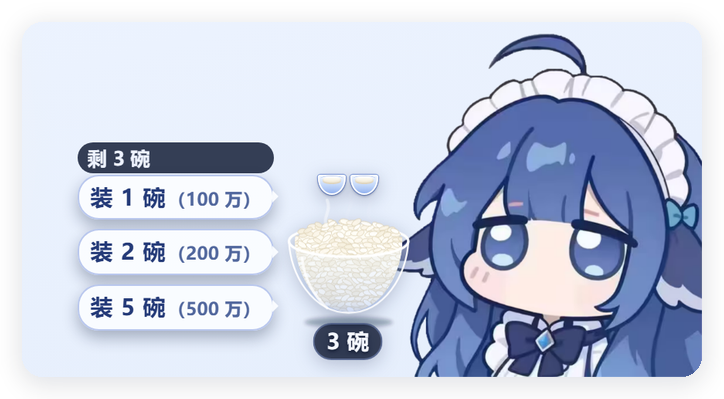
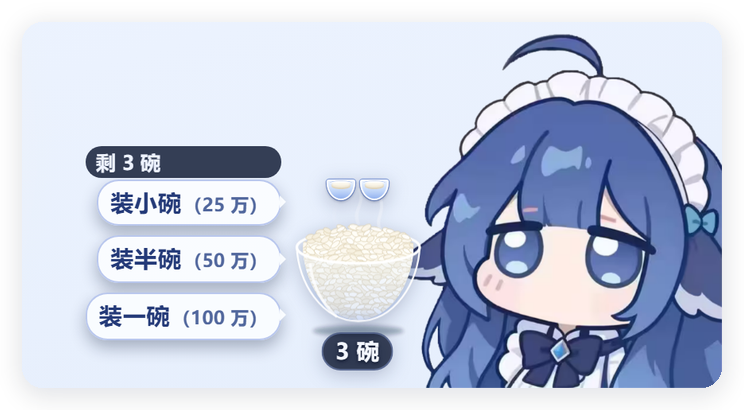
feat: v0.5.2 装饭档位改成小碗/半碗/一碗（25万/50万/100万）

diff --git a/assets/client.js b/assets/client.js
@@ -42,11 +42,15 @@
   ];
   var GRAIN_FILLS = ['#fffdf6', '#fbf6e9', '#fdf9ef', '#f7f0df', '#fffefb'];
 
-  // 1 碗 = 100 万 token；最多显示 5 碗；装饭菜单默认 1 / 2 / 5 碗。
+  // 1 碗 = 100 万 token；最多显示 5 碗；装饭菜单：小碗 25 万 / 半碗 50 万 / 一碗 100 万。
   var DEFAULT_CONFIG = {
     tokensPerBowl: 1000000,
     maxBowls: 5,
-    feedBowls: [1, 2, 5],
+    feedOptions: [
+      { label: '小碗', tokens: 250000 },
+      { label: '半碗', tokens: 500000 },
+      { label: '一碗', tokens: 1000000 }
+    ],
     biteTokens: 1800,
     pollRunningMs: 500,
     pollIdleMs: 1600,
@@ -218,7 +222,7 @@
     var base = {
       tokensPerBowl: DEFAULT_CONFIG.tokensPerBowl,
       maxBowls: DEFAULT_CONFIG.maxBowls,
-      feedBowls: DEFAULT_CONFIG.feedBowls.slice(),
+      feedOptions: DEFAULT_CONFIG.feedOptions.map(function (o) { return { label: o.label, tokens: o.tokens }; }),
       biteTokens: DEFAULT_CONFIG.biteTokens,
       pollRunningMs: DEFAULT_CONFIG.pollRunningMs,
       pollIdleMs: DEFAULT_CONFIG.pollIdleMs,
@@ -235,13 +239,15 @@
     });
     var maxBowls = Number(cfg.maxBowls);
     if (Number.isFinite(maxBowls) && maxBowls > 0) base.maxBowls = Math.max(1, Math.min(5, Math.round(maxBowls)));
-    if (Array.isArray(cfg.feedBowls) && cfg.feedBowls.length) {
+    if (Array.isArray(cfg.feedOptions) && cfg.feedOptions.length) {
       var feed = [];
-      for (var fi = 0; fi < cfg.feedBowls.length; fi++) {
-        var bowls = Math.round(Number(cfg.feedBowls[fi]));
-        if (Number.isFinite(bowls) && bowls > 0 && feed.indexOf(bowls) === -1) feed.push(bowls);
+      for (var fi = 0; fi < cfg.feedOptions.length; fi++) {
+        var opt = cfg.feedOptions[fi];
+        var optTokens = Math.round(Number(opt && opt.tokens));
+        if (!Number.isFinite(optTokens) || optTokens <= 0) continue;
+        feed.push({ label: String((opt && opt.label) || ''), tokens: optTokens });
       }
-      if (feed.length) base.feedBowls = feed.slice(0, 4);
+      if (feed.length) base.feedOptions = feed.slice(0, 4);
     }
     if (cfg.mouth && typeof cfg.mouth === 'object') {
       var mx = Number(cfg.mouth.x);
@@ -485,7 +491,7 @@
         ev.preventDefault();
         ev.stopPropagation();
         audioReady();
-        feedBowls(Number(tierBtn.getAttribute('data-bowls')) || 1);
+        feedTokens(Number(tierBtn.getAttribute('data-tokens')) || 0);
         return;
       }
       if (target.closest('.dshwr-reset')) {
@@ -673,7 +679,10 @@
     var r = Math.max(0, Number(remain) || 0);
     if (r <= 0) return '没饭了';
     var b = bowlsOf(r);
-    var text = b >= 10 ? String(Math.round(b)) : b.toFixed(1).replace(/\.0$/, '');
+    var text;
+    if (b >= 10) text = String(Math.round(b));
+    else if (b >= 1) text = b.toFixed(1).replace(/\.0$/, '');
+    else text = b.toFixed(2).replace(/0+$/, '').replace(/\.$/, '');
     return text + ' 碗';
   }
 
@@ -1098,9 +1107,9 @@
     rt.els.stack.hidden = full <= 0;
   }
 
-  function feedBowls(bowls) {
-    var n = Math.max(1, Math.round(Number(bowls) || 1));
-    var amount = n * tokensPerBowl();
+  function feedTokens(tokens) {
+    var amount = Math.max(0, Math.round(Number(tokens) || 0));
+    if (amount <= 0) return;
     var sid = activeSid();
     var tank = tankOf(sid);
     tank.allocated = Math.max(0, Math.round(Number(tank.allocated) + amount));
@@ -1138,12 +1147,14 @@
     var per = tokensPerBowl();
     var html = '<div class="dshwr-menu-note"><span class="dshwr-unflip">' + esc(remain > 0 ? '剩 ' + bowlText(remain) : '碗是空的') + '</span></div>';
     html += '<div class="dshwr-menu-grid">';
-    var bowls = Array.isArray(rt.config.feedBowls) && rt.config.feedBowls.length ? rt.config.feedBowls : [1, 2, 5];
-    for (var i = 0; i < bowls.length; i++) {
-      var n = Math.max(1, Math.round(Number(bowls[i]) || 1));
-      html += '<button type="button" class="dshwr-tier" data-bowls="' + n + '">'
-        + '<b class="dshwr-unflip">装 ' + n + ' 碗</b>'
-        + '<span class="dshwr-tier-k dshwr-unflip">（' + esc(fmtTokens(n * per)) + '）</span>'
+    var options = Array.isArray(rt.config.feedOptions) && rt.config.feedOptions.length ? rt.config.feedOptions : DEFAULT_CONFIG.feedOptions;
+    for (var i = 0; i < options.length; i++) {
+      var opt = options[i] || {};
+      var amount = Math.max(0, Math.round(Number(opt.tokens) || 0));
+      if (amount <= 0) continue;
+      html += '<button type="button" class="dshwr-tier" data-tokens="' + amount + '">'
+        + '<b class="dshwr-unflip">装' + esc(opt.label || '一碗') + '</b>'
+        + '<span class="dshwr-tier-k dshwr-unflip">（' + esc(fmtTokens(amount)) + '）</span>'
         + '</button>';
     }
     html += '</div>';
@@ -1168,7 +1179,7 @@
     if (!rt.els) return;
     var remaining = liveRemain();
     var tank = tankOf(activeSid());
-    var html = '<div class="dshwr-set-title"><span class="dshwr-unflip">白饭预言家</span><small>v0.5.1</small></div>';
+    var html = '<div class="dshwr-set-title"><span class="dshwr-unflip">白饭预言家</span><small>v0.5.2</small></div>';
     html += setRow('begging', '没饭时讨饭', rt.settings.begging);
     html += setRow('eat', '吃饭动作（嘴 / 嚼）', rt.settings.eat);
     html += setRow('sound', '吃饭音效', rt.settings.sound);

diff --git a/demo/index.html b/demo/index.html
@@ -39,9 +39,9 @@
   <h1>白饭预言家 · 本地预览</h1>
   <p>模拟宿主「小鲸鱼记账挂件」的 DOM；点右下角饭碗就能装饭。</p>
   <div class="row">
-    <button data-feed="1">装 1 碗（100 万）</button>
-    <button data-feed="2">装 2 碗（200 万）</button>
-    <button data-feed="5">装 5 碗（500 万）</button>
+    <button data-feed="250000">装小碗（25 万）</button>
+    <button data-feed="500000">装半碗（50 万）</button>
+    <button data-feed="1000000">装一碗（100 万）</button>
   </div>
   <div class="row">
     <button class="primary" id="btn-turn">开始一轮（turn/start）</button>
@@ -85,9 +85,9 @@
   document.querySelectorAll('[data-feed]').forEach(function (btn) {
     btn.addEventListener('click', function () {
       var t = tank();
-      var n = Number(btn.getAttribute('data-feed')) || 1;
+      var amount = Number(btn.getAttribute('data-feed')) || 0;
       var row = t.sessions['demo-session'];
-      row.allocated += n * 1000000;
+      row.allocated += amount;
       row.fedAt = Date.now();
       save(t);
       location.reload();

diff --git a/README-En.md b/README-En.md
@@ -27,7 +27,7 @@ Eating close-up (whale art belongs to the host widget): a grin with one little f
 | | |
 | --- | --- |
 | Host | The DSH whale balance widget `dsh-whale-widget`. This plugin is an add-on, not a replacement. |
-| Gameplay | Each conversation has its own rice pot: click the bowl to load 1 / 2 / 5 bowls (1 bowl = 1,000,000 tokens). Every turn eats real tokens; at turn end a bubble reports "ate X · Y bowls left". At zero it begs automatically. |
+| Gameplay | Each conversation has its own rice pot: click the bowl to load a small bowl (250K tokens) / half bowl (500K) / one bowl (1M). Every turn eats real tokens; at turn end a bubble reports "ate X · Y bowls left". At zero it begs automatically. |
 | Visuals | Transparent glass bowl with a solid mound of cooked rice (grain texture on the surface). Main bowl + up to 4 bowl slots show the stock (max 5 bowls on screen; beyond that the ledger keeps counting while the UI stays unchanged). The whale grins (one fang), a wooden spoon scoops, a rice ball flies into its mouth, plus cuter synthesized scoop / clink / chew sounds (WebAudio, no audio files). |
 | Ledger | Per conversation (DSH session): loaded / eaten / remaining. Switching conversations switches pots; survives page refresh. |
 | Not | Not a pet-raising game, no levels or memory, no auto-estimation, does not read conversation content, no network upload. |
@@ -50,7 +50,7 @@ Desktop (Electron): the host HTML is served statically, so this plugin also regi
 
 ## Usage
 
-1. **Load rice**: click the bowl → load 1 / 2 / 5 bowls (1M / 2M / 5M tokens). You can also load before a conversation — it is parked as "pending rice" and poured into the next conversation's pot when its first turn starts.
+1. **Load rice**: click the bowl → load a small bowl (250K tokens) / half bowl (500K) / one bowl (1M). You can also load before a conversation — it is parked as "pending rice" and poured into the next conversation's pot when its first turn starts.
 2. **Each turn**: after `turn/start`, real usage makes the whale eat; the rice level drops.
 3. **Turn end**: a bubble reports e.g. "ate 5.4K · 3 bowls left". Short turns are replayed so at least one bite is always shown before the report.
 4. **Bowls**: 1 bowl = 1,000,000 tokens; main bowl + 4 slots = 5 visible bowls max. More than 5 bowls keeps counting but the UI stays the same.
@@ -79,7 +79,7 @@ v0.5.0 uses a **serial chewing queue**:
 
 | File | What |
 | --- | --- |
-| `assets/config.json` | `tokensPerBowl` (default 1,000,000), `maxBowls` (5), `feedBowls` (1/2/5), `biteTokens`, polling / begging / report timings, mouth anchor |
+| `assets/config.json` | `tokensPerBowl` (default 1,000,000), `maxBowls` (5), `feedOptions` (small bowl 250K / half 500K / one 1M), `biteTokens`, polling / begging / report timings, mouth anchor |
 | `assets/lines.json` | line pools (begging / feeding / onboarding) |
 | `lib/state.js` | accounting toggle `COUNT_CACHE_READ` |
 

diff --git a/docs/v0.5.0-spec.md b/docs/v0.5.0-spec.md
@@ -15,7 +15,7 @@
 | 单位 | 1 碗 = **1,000,000 token**（`config.tokensPerBowl`，可调） |
 | 库存 | 每个对话（`sessionId`）独立：`allocated`（已装饭）/ `consumed`（已吃）/ `remaining = allocated - consumed` |
 | 多碗 | 最多显示 **5 碗**（`maxBowls=5`，即 500 万）；装满 5 碗后继续加 token，**UI 不变**，数字标签显示真实剩余 |
-| 装饭 | 菜单：装 1 碗（100 万）/ 2 碗（200 万）/ 5 碗（500 万）；对话中可随时添饭 |
+| 装饭 | 菜单：小碗（25 万）/ 半碗（50 万）/ 一碗（100 万）；对话中可随时添饭（v0.5.2 起） |
 | 消耗 | 回合结束时按本轮 `actualTokens` 扣饭：米饭减少 + 气泡报告「本轮吃了 X · 剩 Y（Z%）」 |
 | 讨饭 | `remaining <= 0` 时**自动**进入讨饭状态（不管是否在跑） |
 | 术语 | 装饭 / 添饭 / 吃了 / 剩饭 / 吃完了 / 讨饭；**不再出现** 预测 / 押注 / 结算 / 超了 / 省下 |

diff --git a/CHANGELOG.md b/CHANGELOG.md
@@ -1,5 +1,11 @@
 # Changelog
 
+## 0.5.2 — 2026-10-18
+
+* 装饭菜单改成按「小碗 / 半碗 / 一碗」选：小碗 = 25 万 token、半碗 = 50 万、一碗 = 100 万（1 碗 = 100 万 token 的显示口径不变）。
+* 剩余不足一碗时标签保留两位小数（例如「0.25 碗」）。
+* demo 装饭按钮、README / README-En / tech-notes 同步更新。
+
 ## 0.5.1 — 2026-10-18
 
 * 吃饭音效换成更可爱的版本：舀饭 = 软软「沙」+ 上扬小「啵」，碰碗 = 小铃铛「叮」，咀嚼 = 软软两下「嗯嘛」，讨饭 = 一声「呜…」；整体音量更轻。
